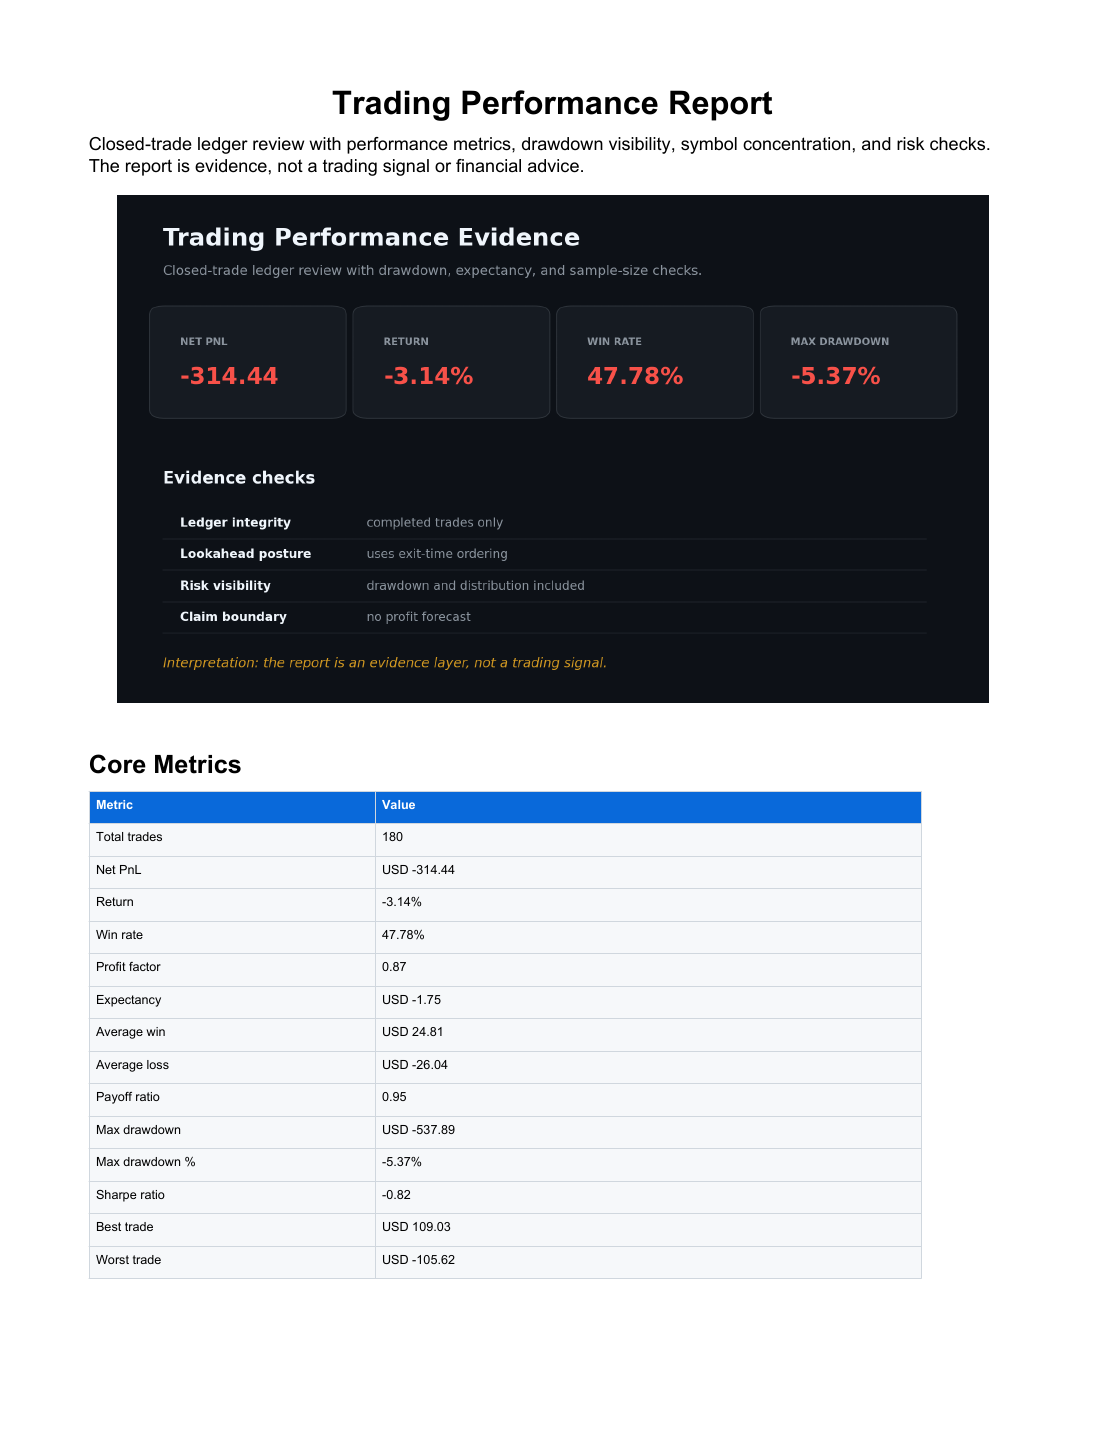
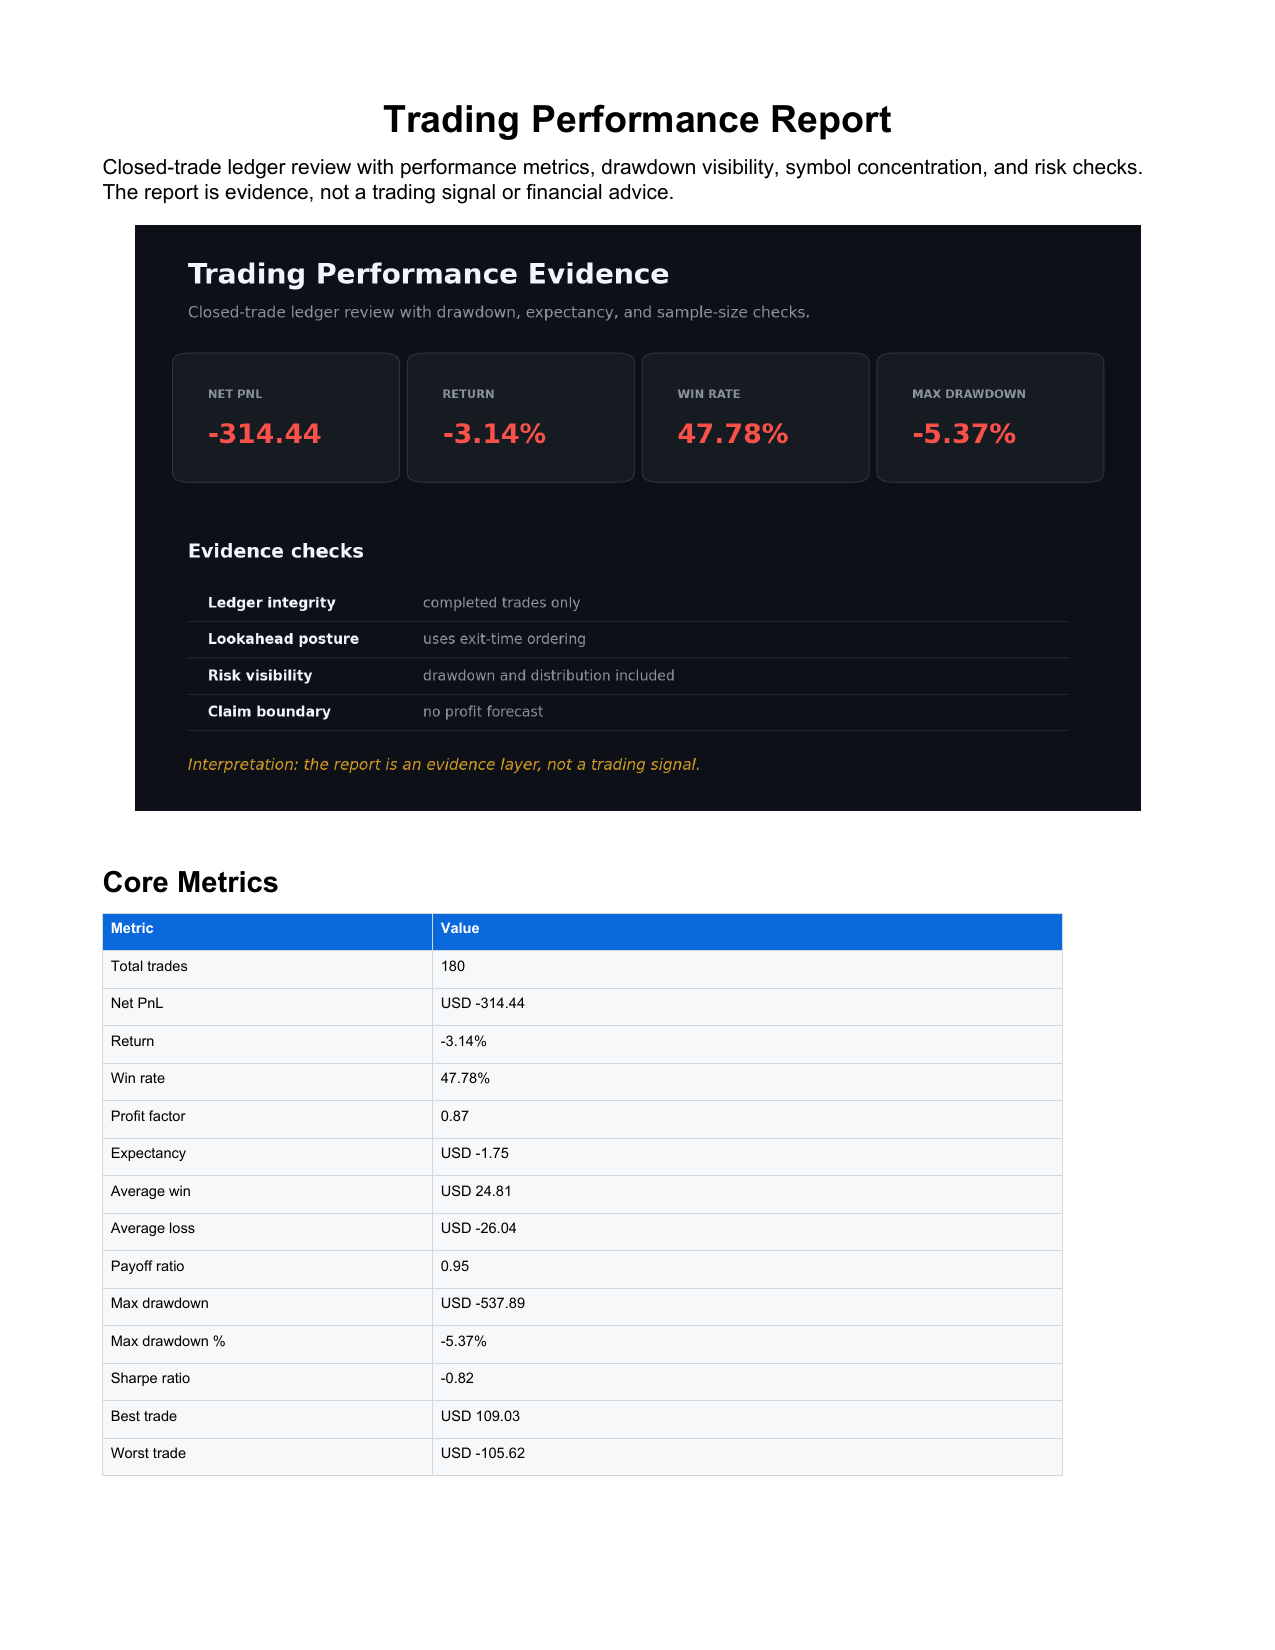
Add trading evidence checks

diff --git a/src/trading_report_kit/evidence.py b/src/trading_report_kit/evidence.py
@@ -1,0 +1,126 @@
+from __future__ import annotations
+
+import pandas as pd
+
+from trading_report_kit.config import ReportConfig
+
+
+def build_evidence_checks(
+    ledger: pd.DataFrame,
+    symbol_breakdown: pd.DataFrame,
+    config: ReportConfig,
+) -> pd.DataFrame:
+    return pd.DataFrame(
+        [
+            _closed_trade_check(ledger, config),
+            _sample_size_check(ledger, config),
+            _fee_coverage_check(ledger, config),
+            _symbol_concentration_check(symbol_breakdown, config),
+            _timestamp_order_check(ledger, config),
+            _lookahead_boundary_check(config),
+            _survivorship_bias_check(symbol_breakdown, config),
+            _multiple_testing_check(),
+        ]
+    )
+
+
+def _closed_trade_check(ledger: pd.DataFrame, config: ReportConfig) -> dict[str, str]:
+    entry_times = pd.to_datetime(ledger[config.entry_time_column])
+    exit_times = pd.to_datetime(ledger[config.exit_time_column])
+    passed = bool((exit_times >= entry_times).all())
+    return {
+        "check": "closed_trade_timestamps",
+        "status": "pass" if passed else "fail",
+        "evidence": "All exit timestamps are on or after entry timestamps."
+        if passed
+        else "At least one trade exits before it enters.",
+    }
+
+
+def _sample_size_check(ledger: pd.DataFrame, config: ReportConfig) -> dict[str, str]:
+    trade_count = len(ledger)
+    passed = trade_count >= config.minimum_trade_count
+    return {
+        "check": "minimum_trade_count",
+        "status": "pass" if passed else "review",
+        "evidence": f"{trade_count} trades; configured minimum is {config.minimum_trade_count}.",
+    }
+
+
+def _fee_coverage_check(ledger: pd.DataFrame, config: ReportConfig) -> dict[str, str]:
+    coverage = float((ledger[config.fees_column] > 0).mean())
+    passed = coverage >= config.minimum_fee_coverage
+    return {
+        "check": "fee_coverage",
+        "status": "pass" if passed else "review",
+        "evidence": f"{coverage:.1%} of trades include non-zero fees.",
+    }
+
+
+def _symbol_concentration_check(
+    symbol_breakdown: pd.DataFrame,
+    config: ReportConfig,
+) -> dict[str, str]:
+    total_trades = int(symbol_breakdown["trades"].sum())
+    top_row = symbol_breakdown.sort_values("trades", ascending=False).iloc[0]
+    share = float(top_row["trades"] / total_trades)
+    passed = share <= config.max_symbol_trade_concentration
+    return {
+        "check": "symbol_concentration",
+        "status": "pass" if passed else "review",
+        "evidence": (
+            f"Top symbol {top_row[config.symbol_column]} is {share:.1%} of trades; "
+            f"limit is {config.max_symbol_trade_concentration:.1%}."
+        ),
+    }
+
+
+def _timestamp_order_check(ledger: pd.DataFrame, config: ReportConfig) -> dict[str, str]:
+    exit_times = pd.to_datetime(ledger[config.exit_time_column])
+    passed = bool(exit_times.is_monotonic_increasing)
+    return {
+        "check": "exit_time_order",
+        "status": "pass" if passed else "review",
+        "evidence": "Ledger is sorted by exit timestamp."
+        if passed
+        else "Ledger was not sorted by exit timestamp before processing.",
+    }
+
+
+def _lookahead_boundary_check(config: ReportConfig) -> dict[str, str]:
+    return {
+        "check": "lookahead_boundary",
+        "status": "pass",
+        "evidence": (
+            "The report summarizes closed trades only and does not train a predictive "
+            f"model; use at least {config.embargo_days} day(s) of embargo for any "
+            "future walk-forward feature study."
+        ),
+    }
+
+
+def _survivorship_bias_check(
+    symbol_breakdown: pd.DataFrame,
+    config: ReportConfig,
+) -> dict[str, str]:
+    symbol_count = int(symbol_breakdown[config.symbol_column].nunique())
+    status = "review" if symbol_count <= 1 else "pass"
+    return {
+        "check": "survivorship_bias",
+        "status": status,
+        "evidence": (
+            f"{symbol_count} symbol(s) present. Confirm the source universe includes "
+            "delisted or failed names when evaluating broad strategies."
+        ),
+    }
+
+
+def _multiple_testing_check() -> dict[str, str]:
+    return {
+        "check": "multiple_testing",
+        "status": "review",
+        "evidence": (
+            "If this strategy was selected after many variants, report candidate count "
+            "and walk-forward results before treating the performance as evidence."
+        ),
+    }

diff --git a/src/trading_report_kit/pipeline.py b/src/trading_report_kit/pipeline.py
@@ -6,7 +6,13 @@ from pathlib import Path
 import pandas as pd
 
 from trading_report_kit.config import ReportConfig
-from trading_report_kit.contracts import validate_ledger, validate_metrics, validate_monthly_returns
+from trading_report_kit.contracts import (
+    validate_evidence_checks,
+    validate_ledger,
+    validate_metrics,
+    validate_monthly_returns,
+)
+from trading_report_kit.evidence import build_evidence_checks
 from trading_report_kit.metrics import PerformanceMetrics, calculate_metrics
 from trading_report_kit.outputs import write_csv, write_manifest, write_metrics_report
 from trading_report_kit.pdf_report import write_pdf_report
@@ -30,6 +36,7 @@ class PipelineResult:
     daily_equity_path: Path
     monthly_returns_path: Path
     symbol_breakdown_path: Path
+    evidence_checks_path: Path
     metrics_report_path: Path
     pdf_report_path: Path
     dashboard_path: Path
@@ -48,6 +55,9 @@ def run_report_pipeline(input_path: Path, output_dir: Path, config: ReportConfig
     metrics = calculate_metrics(ledger, daily_equity, config)
     metrics_frame = validate_metrics(metrics.to_frame())
     symbol_breakdown = _build_symbol_breakdown(ledger, config)
+    evidence_checks = validate_evidence_checks(
+        build_evidence_checks(ledger, symbol_breakdown, config)
+    )
 
     output_dir.mkdir(parents=True, exist_ok=True)
     metrics_path = write_csv(metrics_frame, output_dir / "performance_metrics.csv")
@@ -55,6 +65,7 @@ def run_report_pipeline(input_path: Path, output_dir: Path, config: ReportConfig
     daily_equity_path = write_csv(daily_equity, output_dir / "daily_equity.csv")
     monthly_returns_path = write_csv(monthly_returns, output_dir / "monthly_returns.csv")
     symbol_breakdown_path = write_csv(symbol_breakdown, output_dir / "symbol_breakdown.csv")
+    evidence_checks_path = write_csv(evidence_checks, output_dir / "evidence_checks.csv")
 
     dashboard_path = write_dashboard_image(metrics.model_dump(), output_dir / "dashboard.png")
     equity_curve_path = write_equity_curve(daily_equity, output_dir / "equity_curve.png")
@@ -74,12 +85,14 @@ def run_report_pipeline(input_path: Path, output_dir: Path, config: ReportConfig
         output_path=output_dir / "metrics_report.md",
         best_symbol=best_symbol,
         worst_symbol=worst_symbol,
+        evidence_checks=evidence_checks,
     )
     pdf_report_path = write_pdf_report(
         output_path=output_dir / "performance_report.pdf",
         metrics=metrics,
         monthly_returns=monthly_returns,
         symbol_breakdown=symbol_breakdown,
+        evidence_checks=evidence_checks,
         dashboard_path=dashboard_path,
         equity_curve_path=equity_curve_path,
         drawdown_chart_path=drawdown_chart_path,
@@ -94,6 +107,7 @@ def run_report_pipeline(input_path: Path, output_dir: Path, config: ReportConfig
             "daily_equity": daily_equity_path,
             "monthly_returns": monthly_returns_path,
             "symbol_breakdown": symbol_breakdown_path,
+            "evidence_checks": evidence_checks_path,
             "metrics_report": metrics_report_path,
             "pdf_report": pdf_report_path,
             "dashboard": dashboard_path,
@@ -112,6 +126,7 @@ def run_report_pipeline(input_path: Path, output_dir: Path, config: ReportConfig
         daily_equity_path=daily_equity_path,
         monthly_returns_path=monthly_returns_path,
         symbol_breakdown_path=symbol_breakdown_path,
+        evidence_checks_path=evidence_checks_path,
         metrics_report_path=metrics_report_path,
         pdf_report_path=pdf_report_path,
         dashboard_path=dashboard_path,

diff --git a/src/trading_report_kit/pdf_report.py b/src/trading_report_kit/pdf_report.py
@@ -18,6 +18,7 @@ def write_pdf_report(
     metrics: PerformanceMetrics,
     monthly_returns: pd.DataFrame,
     symbol_breakdown: pd.DataFrame,
+    evidence_checks: pd.DataFrame,
     dashboard_path: Path,
     equity_curve_path: Path,
     drawdown_chart_path: Path,
@@ -57,7 +58,7 @@ def write_pdf_report(
         Spacer(1, 0.18 * inch),
         Paragraph("Evidence Checklist", styles["Heading2"]),
         _dataframe_table(
-            _evidence_checklist(metrics),
+            evidence_checks,
             font_size=8,
             wrap_text=True,
             full_width=True,
@@ -168,30 +169,3 @@ def _format_metrics(metrics: PerformanceMetrics, currency: str) -> pd.DataFrame:
     ]
     return pd.DataFrame(rows, columns=["Metric", "Value"])
 
-
-def _evidence_checklist(metrics: PerformanceMetrics) -> pd.DataFrame:
-    status = "Review" if metrics.total_trades < 30 else "Pass"
-    return pd.DataFrame(
-        [
-            {
-                "Check": "Closed-trade ledger",
-                "Status": "Pass",
-                "Note": "Report summarizes completed trades only.",
-            },
-            {
-                "Check": "Minimum sample size",
-                "Status": status,
-                "Note": "Small trade counts can overstate strategy quality.",
-            },
-            {
-                "Check": "Drawdown visibility",
-                "Status": "Pass",
-                "Note": "Equity and drawdown charts are included.",
-            },
-            {
-                "Check": "Forward-looking claims",
-                "Status": "Pass",
-                "Note": "The report does not forecast future profit.",
-            },
-        ]
-    )

diff --git a/src/trading_report_kit/outputs.py b/src/trading_report_kit/outputs.py
@@ -20,8 +20,11 @@ def write_metrics_report(
     output_path: Path,
     best_symbol: str,
     worst_symbol: str,
+    evidence_checks: pd.DataFrame,
 ) -> Path:
     data = metrics.model_dump()
+    review_count = int((evidence_checks["status"] == "review").sum())
+    fail_count = int((evidence_checks["status"] == "fail").sum())
     lines = [
         "# Trading Performance Metrics Report",
         "",
@@ -32,6 +35,12 @@ def write_metrics_report(
         f"- Profit factor: `{data['profit_factor']:.2f}`",
         f"- Max drawdown: `{data['max_drawdown_pct']:.2%}`",
         f"- Sharpe ratio: `{data['sharpe_ratio']:.2f}`",
+        "",
+        "## Evidence Checks",
+        "",
+        f"- Review items: `{review_count}`",
+        f"- Failed items: `{fail_count}`",
+        "- Full table: `evidence_checks.csv`",
         "",
         "## Business Read",
         "",

diff --git a/tests/test_pipeline.py b/tests/test_pipeline.py
@@ -20,6 +20,7 @@ def test_run_report_pipeline_writes_outputs(tmp_path: Path) -> None:
     assert result.daily_equity_path.exists()
     assert result.monthly_returns_path.exists()
     assert result.symbol_breakdown_path.exists()
+    assert result.evidence_checks_path.exists()
     assert result.pdf_report_path.exists()
     assert result.dashboard_path.exists()
     assert result.equity_curve_path.exists()
@@ -27,6 +28,9 @@ def test_run_report_pipeline_writes_outputs(tmp_path: Path) -> None:
     assert result.monthly_returns_chart_path.exists()
     assert result.trade_distribution_path.exists()
     assert result.manifest_path.exists()
+    evidence = pd.read_csv(result.evidence_checks_path)
+    assert {"check", "status", "evidence"}.issubset(evidence.columns)
+    assert "multiple_testing" in set(evidence["check"])
 
 
 def ohlc_fixture() -> pd.DataFrame:

diff --git a/src/trading_report_kit/contracts.py b/src/trading_report_kit/contracts.py
@@ -43,3 +43,16 @@ def validate_monthly_returns(frame: pd.DataFrame) -> pd.DataFrame:
         strict=True,
     )
     return schema.validate(frame, lazy=True)
+
+
+def validate_evidence_checks(frame: pd.DataFrame) -> pd.DataFrame:
+    schema = pa.DataFrameSchema(
+        {
+            "check": pa.Column(str, nullable=False),
+            "status": pa.Column(str, checks=pa.Check.isin(["pass", "review", "fail"])),
+            "evidence": pa.Column(str, nullable=False),
+        },
+        coerce=True,
+        strict=True,
+    )
+    return schema.validate(frame, lazy=True)

diff --git a/src/trading_report_kit/config.py b/src/trading_report_kit/config.py
@@ -24,6 +24,10 @@ class ReportConfig(BaseModel):
     short_label: str = "short"
     annualization_days: int = Field(default=252, ge=1)
     risk_free_rate: float = 0.0
+    minimum_trade_count: int = Field(default=30, ge=5)
+    minimum_fee_coverage: float = Field(default=0.9, ge=0, le=1)
+    max_symbol_trade_concentration: float = Field(default=0.5, gt=0, le=1)
+    embargo_days: int = Field(default=1, ge=0, le=30)
     max_table_rows: int = Field(default=12, ge=3, le=50)
     report_title: str = "Trading Performance Report"
     mode: Literal["trades"] = "trades"

diff --git a/README.md b/README.md
@@ -46,6 +46,7 @@ trade_ledger.csv
 daily_equity.csv
 monthly_returns.csv
 symbol_breakdown.csv
+evidence_checks.csv
 metrics_report.md
 performance_report.pdf
 dashboard.png
@@ -85,6 +86,7 @@ The report includes:
 - Sharpe ratio
 - best and worst trade
 - symbol breakdown
+- evidence checks for fee coverage, sample size, timestamp order, concentration, and bias risks
 - monthly returns
 
 ## Notes

diff --git a/sample_outputs/demo/metrics_report.md b/sample_outputs/demo/metrics_report.md
@@ -8,6 +8,12 @@
 - Max drawdown: `-5.37%`
 - Sharpe ratio: `-0.82`
 
+## Evidence Checks
+
+- Review items: `3`
+- Failed items: `0`
+- Full table: `evidence_checks.csv`
+
 ## Business Read
 
 Use the equity curve and drawdown chart together. A strategy can show positive return while still having unacceptable drawdown.
